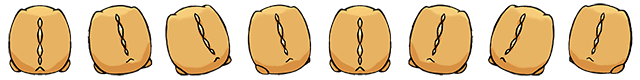
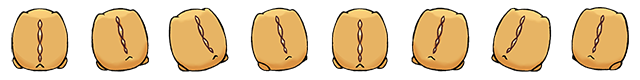
doll back eating animations

Changed region(s): [[0.0, 0.025, 1.0, 0.95]]

diff --git a/core/src/tiktaalik/trino/GameController.java b/core/src/tiktaalik/trino/GameController.java
@@ -66,7 +66,7 @@ public class GameController implements ContactListener, Screen {
 	private static final String DOLL_EATING_STRIP_FRONT  = "trino/doll_front_eating_strip.png";
 	private static final String DOLL_EATING_STRIP_LEFT  = "trino/doll_left_eating_strip.png";
 	private static final String DOLL_EATING_STRIP_RIGHT  = "trino/doll_right_eating_strip.png";
-	private static final String DOLL_EATING_STRIP_BACK  = "trino/doll_front_eating_strip.png";
+	private static final String DOLL_EATING_STRIP_BACK  = "trino/doll_back_eating_strip.png";
 	private static final String DOLL_CLONING_STRIP_FRONT  = "trino/doll_front_cloning_strip.png";
 	private static final String HERBIVORE_STRIP_FRONT  = "trino/herbivore_front_strip.png";
 	private static final String HERBIVORE_STRIP_LEFT  = "trino/herbivore_left_strip.png";
@@ -1625,7 +1625,7 @@ public class GameController implements ContactListener, Screen {
 								filmStripDict.get("dollFront"), 8);
 						avatar.setEatingTextureSet(filmStripDict.get("dollEatingLeft"), 7,
 								filmStripDict.get("dollEatingRight"), 7,
-								filmStripDict.get("dollEatingBack"), 7,
+								filmStripDict.get("dollEatingBack"), 6,
 								filmStripDict.get("dollEatingFront"), 7);
 						avatar.setActionTextureSet(filmStripDict.get("dollCloningFront"), 12,
 								filmStripDict.get("dollCloningFront"), 12,

diff --git a/core/src/tiktaalik/trino/Level.java b/core/src/tiktaalik/trino/Level.java
@@ -323,7 +323,7 @@ public class Level {
                     filmStripDict.get("dollFront"), 8);
             avatar.setEatingTextureSet(filmStripDict.get("dollEatingLeft"), 7,
                     filmStripDict.get("dollEatingRight"), 7,
-                    filmStripDict.get("dollEatingBack"), 7,
+                    filmStripDict.get("dollEatingBack"), 6,
                     filmStripDict.get("dollEatingFront"), 7);
             avatar.setActionTextureSet(filmStripDict.get("dollCloningFront"), 12,
                     filmStripDict.get("dollCloningFront"), 12,
